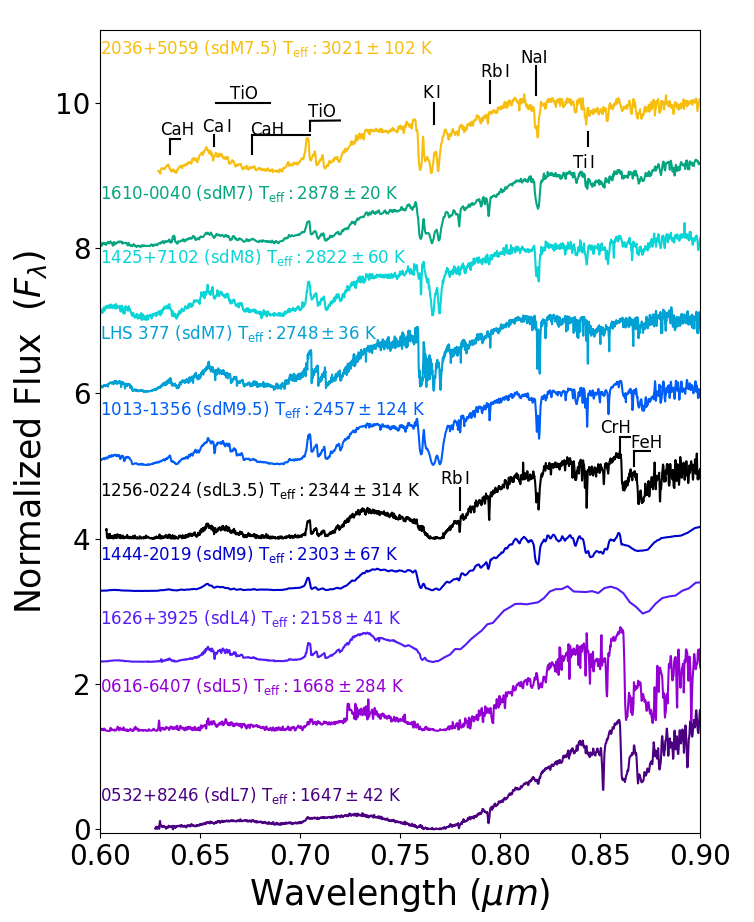
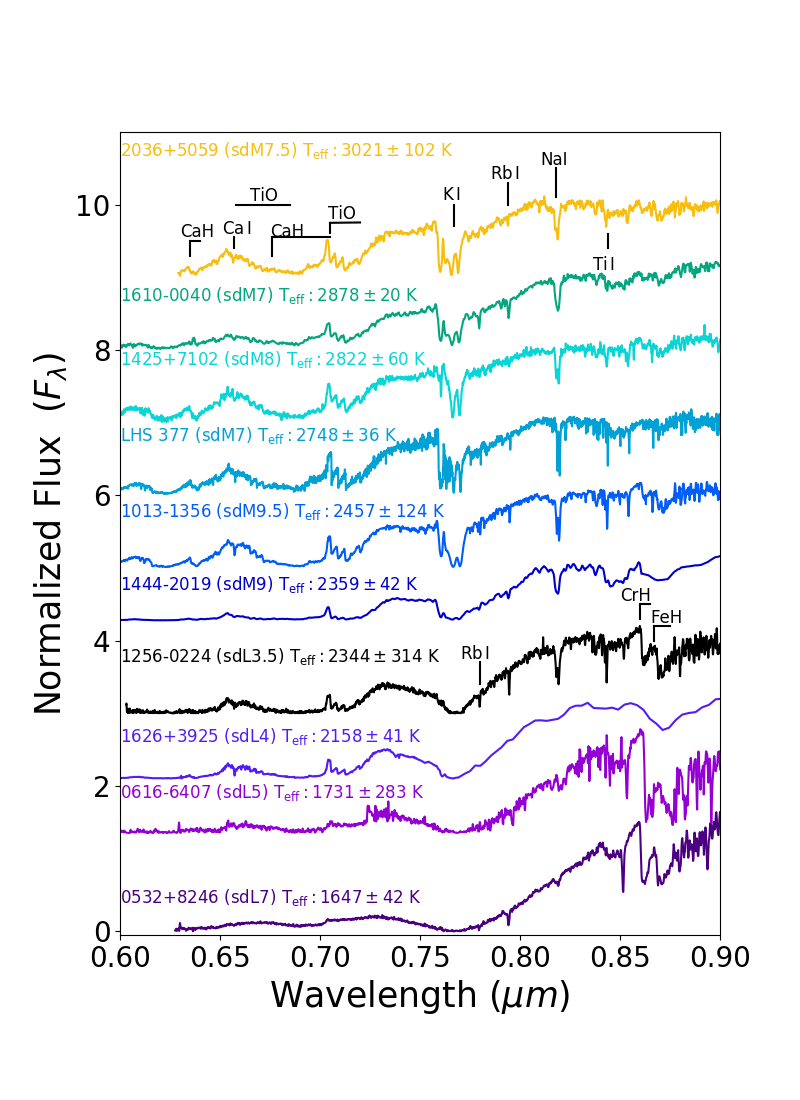
Remade with corrected SEDs for 1444 and 0616 new teffs

diff --git a/Subdwarfs_redoptical.py b/Subdwarfs_redoptical.py
@@ -88,10 +88,10 @@ plt.ylabel('Normalized Flux  ($F_\lambda$)', fontsize=25)
 
 # -------- Add data -----------
 ax1.plot(df_0532['w'], norm_df_0532, c='indigo')                                # sdL7 1647
-ax1.plot(df_0616['w'], norm_df_0616 + 1.35, c='darkviolet')                          # sdL5 1668
-ax1.plot(df_1626['w'], norm_df_1626 + 2.3, c='#531CF7')                               # sdL4 2158
-ax1.plot(df_1444['w'], norm_df_1444 + 3, c='mediumblue')                            # sdM9 2303
-ax1.plot(df_1256['w'], norm_df_1256 + 4, c='k')                                     # sdL3.5  2338
+ax1.plot(df_0616['w'], norm_df_0616 + 1.35, c='darkviolet')                          # sdL5 1731
+ax1.plot(df_1626['w'], norm_df_1626 + 2.1, c='#531CF7')                               # sdL4 2158
+ax1.plot(df_1256['w'], norm_df_1256 + 3, c='k')                                     # sdL3.5  2338
+ax1.plot(df_1444['w'], norm_df_1444 + 4, c='mediumblue')                            # sdM9 2359
 ax1.plot(df_1013['w'], norm_df_1013 + 5, c='#015DF7')                               # sdM9.5 2457
 ax1.plot(df_LHS['w'], norm_df_LHS + 6, c='#01A1D6')                                 # sdM7 2748
 ax1.plot(df_1425['w'], norm_df_1425 + 7, c='#09D5D6')                               # sdM8 2822
@@ -104,13 +104,13 @@ ax1.plot(df_2036['w'], norm_df_2036 + 9, c='#F7BE0F')                           
 # ------- Label Sources -------------
 ax1.text(0, 0.04, '0532+8246 (sdL7) T$_\mathrm{eff}: 1647 \pm 42$ K ', transform=ax1.transAxes, color='indigo',
          fontsize=12)
-ax1.text(0, 0.175, '0616-6407 (sdL5) T$_\mathrm{eff}: 1668 \pm 284$ K ', transform=ax1.transAxes, color='darkviolet',
+ax1.text(0, 0.17, '0616-6407 (sdL5) T$_\mathrm{eff}: 1731 \pm 283$ K ', transform=ax1.transAxes, color='darkviolet',
          fontsize=12)
-ax1.text(0, 0.26, '1626+3925 (sdL4) T$_\mathrm{eff}: 2158 \pm 41$ K', transform=ax1.transAxes, color='#531CF7',
+ax1.text(0, 0.24, '1626+3925 (sdL4) T$_\mathrm{eff}: 2158 \pm 41$ K', transform=ax1.transAxes, color='#531CF7',
          fontsize=12)
-ax1.text(0, 0.34, '1444-2019 (sdM9) T$_\mathrm{eff}: 2303 \pm 67$ K', transform=ax1.transAxes, color='mediumblue',
+ax1.text(0, 0.34, '1256-0224 (sdL3.5) T$_\mathrm{eff}: 2344 \pm 314$ K', transform=ax1.transAxes, color='k',
          fontsize=12)
-ax1.text(0, 0.42, '1256-0224 (sdL3.5) T$_\mathrm{eff}: 2344 \pm 314$ K', transform=ax1.transAxes, color='k',
+ax1.text(0, 0.43, '1444-2019 (sdM9) T$_\mathrm{eff}: 2359 \pm 42$ K', transform=ax1.transAxes, color='mediumblue',
          fontsize=12)
 ax1.text(0, 0.52, '1013-1356 (sdM9.5) T$_\mathrm{eff}: 2457 \pm 124$ K', transform=ax1.transAxes, color='#015DF7',
          fontsize=12)
@@ -174,15 +174,15 @@ ax1.annotate('K$\,$I', xy=(0.761, 10.065), color='k', fontsize=12)
 
 Rb1 = pd.DataFrame()
 Rb1['x'] = [0.78, 0.78]
-Rb1['y'] = [4.4, 4.7]
+Rb1['y'] = [3.4, 3.7]
 ax1.plot(Rb1['x'], Rb1['y'], color='k')
-ax1.annotate('Rb$\,$I', xy=(0.77, 4.75), color='k', fontsize=12)
+ax1.annotate('Rb$\,$I', xy=(0.77, 3.75), color='k', fontsize=12)
 
 Rb = pd.DataFrame()
-Rb['x'] = [0.795, 0.795]
+Rb['x'] = [0.794, 0.794]
 Rb['y'] = [10, 10.3]
 ax1.plot(Rb['x'], Rb['y'], color='k')
-ax1.annotate('Rb$\,$I', xy=(0.79, 10.35), color='k', fontsize=12)
+ax1.annotate('Rb$\,$I', xy=(0.785, 10.35), color='k', fontsize=12)
 
 NaI = pd.DataFrame()
 NaI['x'] = [0.818, 0.818]
@@ -198,22 +198,22 @@ ax1.annotate('Ti$\,$I', xy=(0.836, 9.1), color='k', fontsize=12)
 
 CrH = pd.DataFrame()
 CrH['x'] = [0.86, 0.865]
-CrH['y'] = [5.4, 5.4]
+CrH['y'] = [4.5, 4.5]
 ax1.plot(CrH['x'], CrH['y'], color='k')
 CrHd = pd.DataFrame()
 CrHd['x'] = [0.86, 0.86]
-CrHd['y'] = [5.2, 5.4]
+CrHd['y'] = [4.3, 4.5]
 ax1.plot(CrHd['x'], CrHd['y'], color='k')
-ax1.annotate('CrH', xy=(0.85, 5.45), color='k', fontsize=12)
+ax1.annotate('CrH', xy=(0.85, 4.55), color='k', fontsize=12)
 
 FeH = pd.DataFrame()
 FeH['x'] = [0.867, 0.875]
-FeH['y'] = [5.2, 5.2]
+FeH['y'] = [4.2, 4.2]
 ax1.plot(FeH['x'], FeH['y'], color='k')
 FeH = pd.DataFrame()
 FeH['x'] = [0.867, 0.867]
-FeH['y'] = [5, 5.2]
+FeH['y'] = [4, 4.2]
 ax1.plot(FeH['x'], FeH['y'], color='k')
-ax1.annotate('FeH', xy=(0.865, 5.25), color='k', fontsize=12)
+ax1.annotate('FeH', xy=(0.865, 4.25), color='k', fontsize=12)
 
 plt.savefig('Plots/Subdwarfs_redoptical_split.png')
